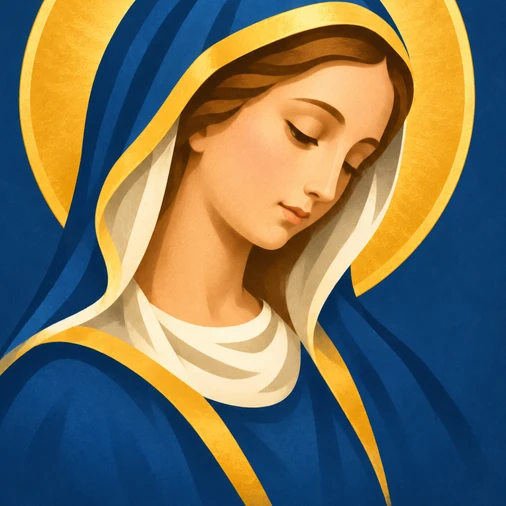
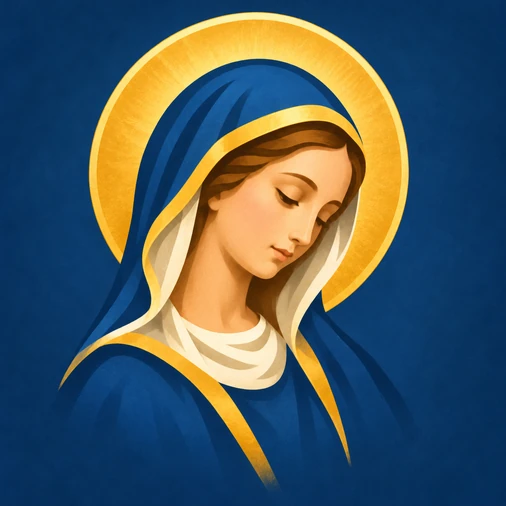
Revert: the full rosary's picture uncropped again
Claude-Session: https://claude.ai/code/session_01C5cbcRDhpzeVMGUaJpZkq6

diff --git a/CLAUDE.md b/CLAUDE.md
@@ -72,7 +72,7 @@ A single-page web app for praying the Latin rosary and other Latin prayers (the 
 - `public/manifest.webmanifest` — PWA metadata.
 - `public/.htaccess` — Apache (WEDOS) rewrite: plain http and `www.` get a 301 to `https://rosarium.lat/` + the same path (the service worker needs https; `localStorage` is per origin, so one host only). WEDOS serves the domain from `domains/rosarium.lat/` by an internal rewrite, so `%{REQUEST_URI}` carries that folder: the path is captured relative to the file (`$1`), never from `REQUEST_URI`, and a request naming the folder (`%{THE_REQUEST}`) is sent back to the plain path. The host is written in it: a build for another address must drop or change it.
 - `art/missal/*.jpg` — the Misál look's woodcuts, cut from a typeset Roman missal's PDF whose plates are dated 1883–1887 (public domain): headpieces named after their group (`cotidianae`, `mariales`, `missa`, `sacramentum`, `litaniae`, `defuncti`, `devotiones`, `ioseph`) or screen (`maria` for *Moje*, `immaculata` for the plans, `euntes` for Help), the vignettes `tempus` (in season) and `pax` (About), and the red ornaments `finis`, `crux` and `stella`. `scripts/render-missal-art.py` (Pillow) cleans each to black ink on white and saves `public/missal/<name>.webp` in grey (about 65 kB a headpiece), which `MissalArt` blends into the page (`.missal-art` in `index.css`: `multiply`, and inverted with `screen` in the dark theme); the red ones (`RED`) get an alpha channel instead and are drawn as a mask over `--rubric`, sized by `RED_ORNAMENTS`. Re-run it whenever one changes. They load lazily and only in the Misál.
-- `art/menu-icons/*.webp` — the paintings on the start screen's mystery-set and chaplet tiles (506 px, AI-generated, as About says — `t.aboutArt`): `radostny`, `bolestny`, `slavny` and the Divine Mercy chaplet's `misericordia`; and the full rosary's `psalterium` (Our Lady with a golden halo on blue, cut to her face and halo from a 1254 px original: an 880 px square centred 70 px below its middle). `scripts/render-menu-icons.py` (Pillow) renders them to `public/icons/<name>.webp` at 96 px (about 4 kB each), which `TileImage` draws at 40 px; re-run it whenever a painting changes. The groups, the in-season card, the plans and the continue tile keep their line-drawn symbols.
+- `art/menu-icons/*.webp` — the paintings on the start screen's mystery-set and chaplet tiles (506 px, AI-generated, as About says — `t.aboutArt`): `radostny`, `bolestny`, `slavny` and the Divine Mercy chaplet's `misericordia`; and the full rosary's `psalterium` (Our Lady with a golden halo on blue). `scripts/render-menu-icons.py` (Pillow) renders them to `public/icons/<name>.webp` at 96 px (about 4 kB each), which `TileImage` draws at 40 px; re-run it whenever a painting changes. The groups, the in-season card, the plans and the continue tile keep their line-drawn symbols.
 - `art/icon-source.png` — the app icon's art (AI-generated, as About says): the Immaculate Heart (flames, the sword, a garland of white roses, a glory of rays) full-bleed on a textured blue field, 1254 px square. `scripts/render-icons.py` (Pillow, NumPy) renders it to `public/icon-48.png` (favicon, in `index.html` and on the static pages), `icon-180.png` (iOS `apple-touch-icon`) and `icon-192.png` / `icon-512.png` (manifest, `any`) at 88%, and to `icon-maskable-192.png` / `icon-maskable-512.png` (manifest, `maskable`) at 78%, so the flames' tips and the sword's pommel stay inside Android's maskable safe zone. Each is scaled onto the field's own blue (sampled from the picture's border, lighter towards the centre) with the art's edge feathered into it, and the glory of rays round the heart (`GLORY_X`, `GLORY_Y`) is centred, since in the painting it sits below the middle with the flames at the top edge. It also renders `public/heart-192.webp` — the heart the start screen and the About dialog show — from `art/icon-heart.png`, the same art with the blue field transparent, which `scripts/cut-heart.py` cuts out (opaque heart, flames, sword and roses; the rays faded out by colour-to-alpha against the field's blue, the dull shading beside them dropped). Inside the app the heart stands on the page's own background, so it suits both themes; the installed icon keeps the blue. Re-run both (`cut-heart.py` first) whenever the art changes, and look at the cut-out.
 - `public/og-image.svg` — the 1200×630 link-preview image (the heart, linked from `../art/icon-source.png`, filling the left square with its right edge fading into the same blue, beside *Rosarium Latinum* in light type, with no domain in it so a move needs no re-render, set in EB Garamond, which must be installed to render it), rendered to `og-image.png` with Inkscape from inside `public/` (so the relative image link resolves): `inkscape og-image.svg --export-type=png --export-filename=og-image.png -w 1200 -h 630`.
 - `index.html` — title, description, link-preview tags (canonical, Open Graph, `twitter:card`; their `%APP_URL%` is filled in at build time), theme color, manifest link, icons, and the pre-paint script that sets the theme and the look (`data-theme`, `data-look`). Previews are bilingual (English, then Czech) for the same reason as the name. The installed name is Latin and the same for every locale — *Rosarium* (`<title>`, `apple-mobile-web-app-title`, manifest `short_name`), *Rosarium Latinum* in full — because a manifest can't follow the UI language; the app then sets `document.title` and `<html lang>` from the locale at runtime. (No webfont link: EB Garamond is bundled, see Typography.)
